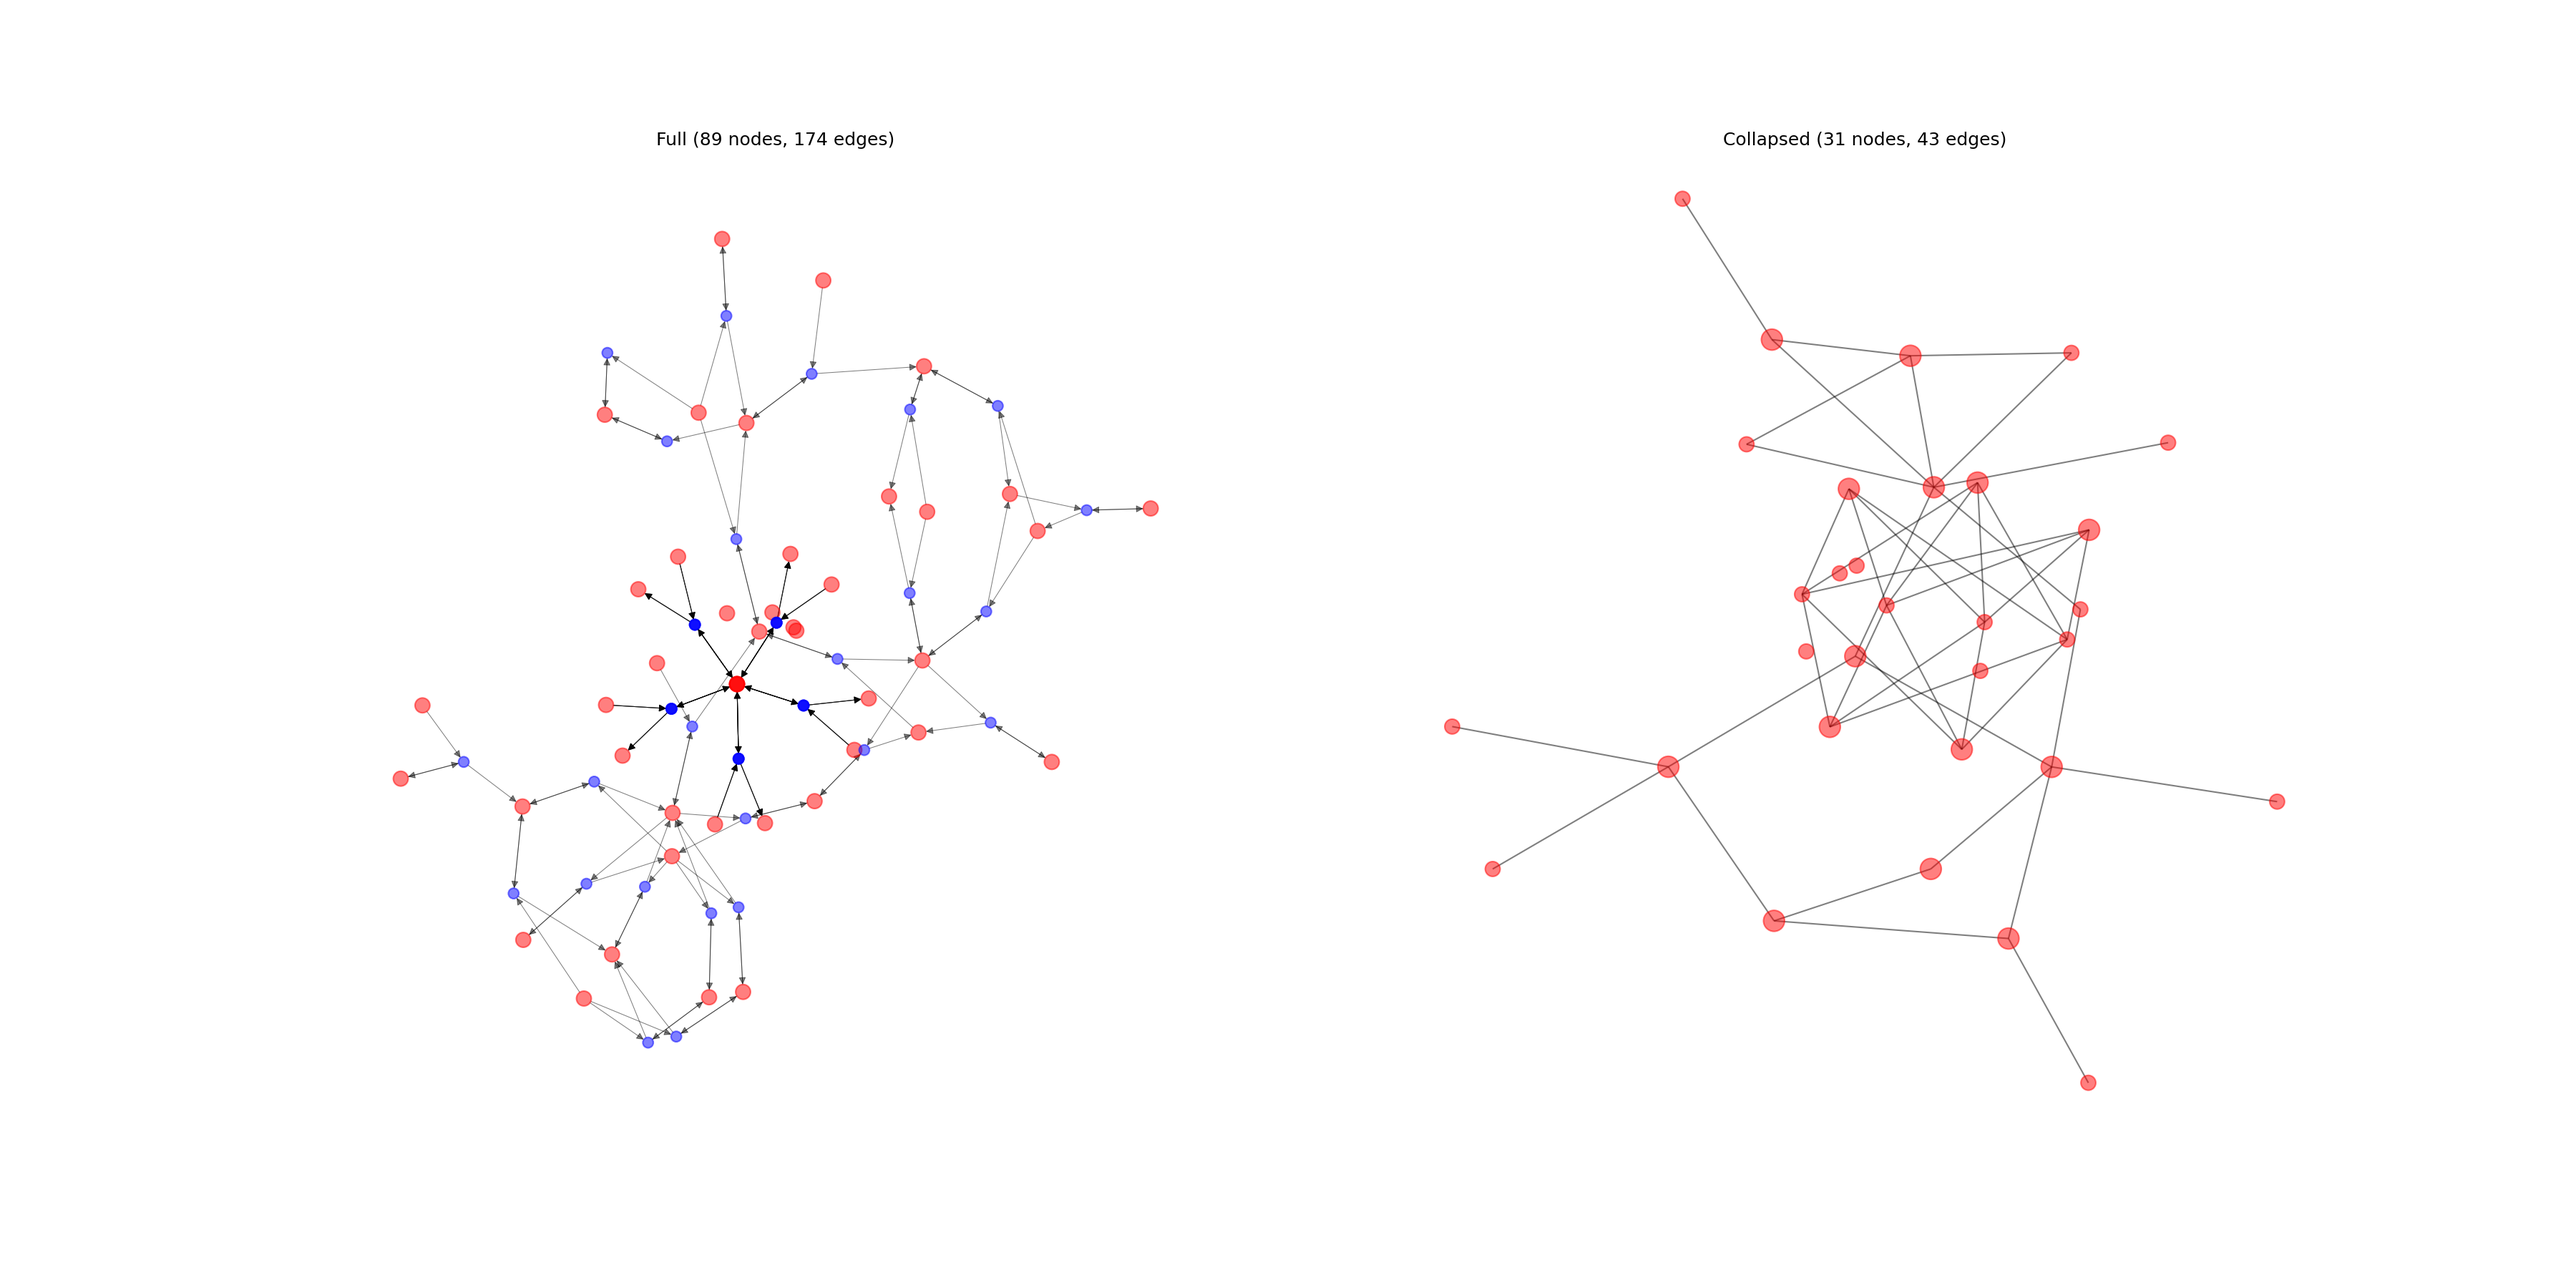
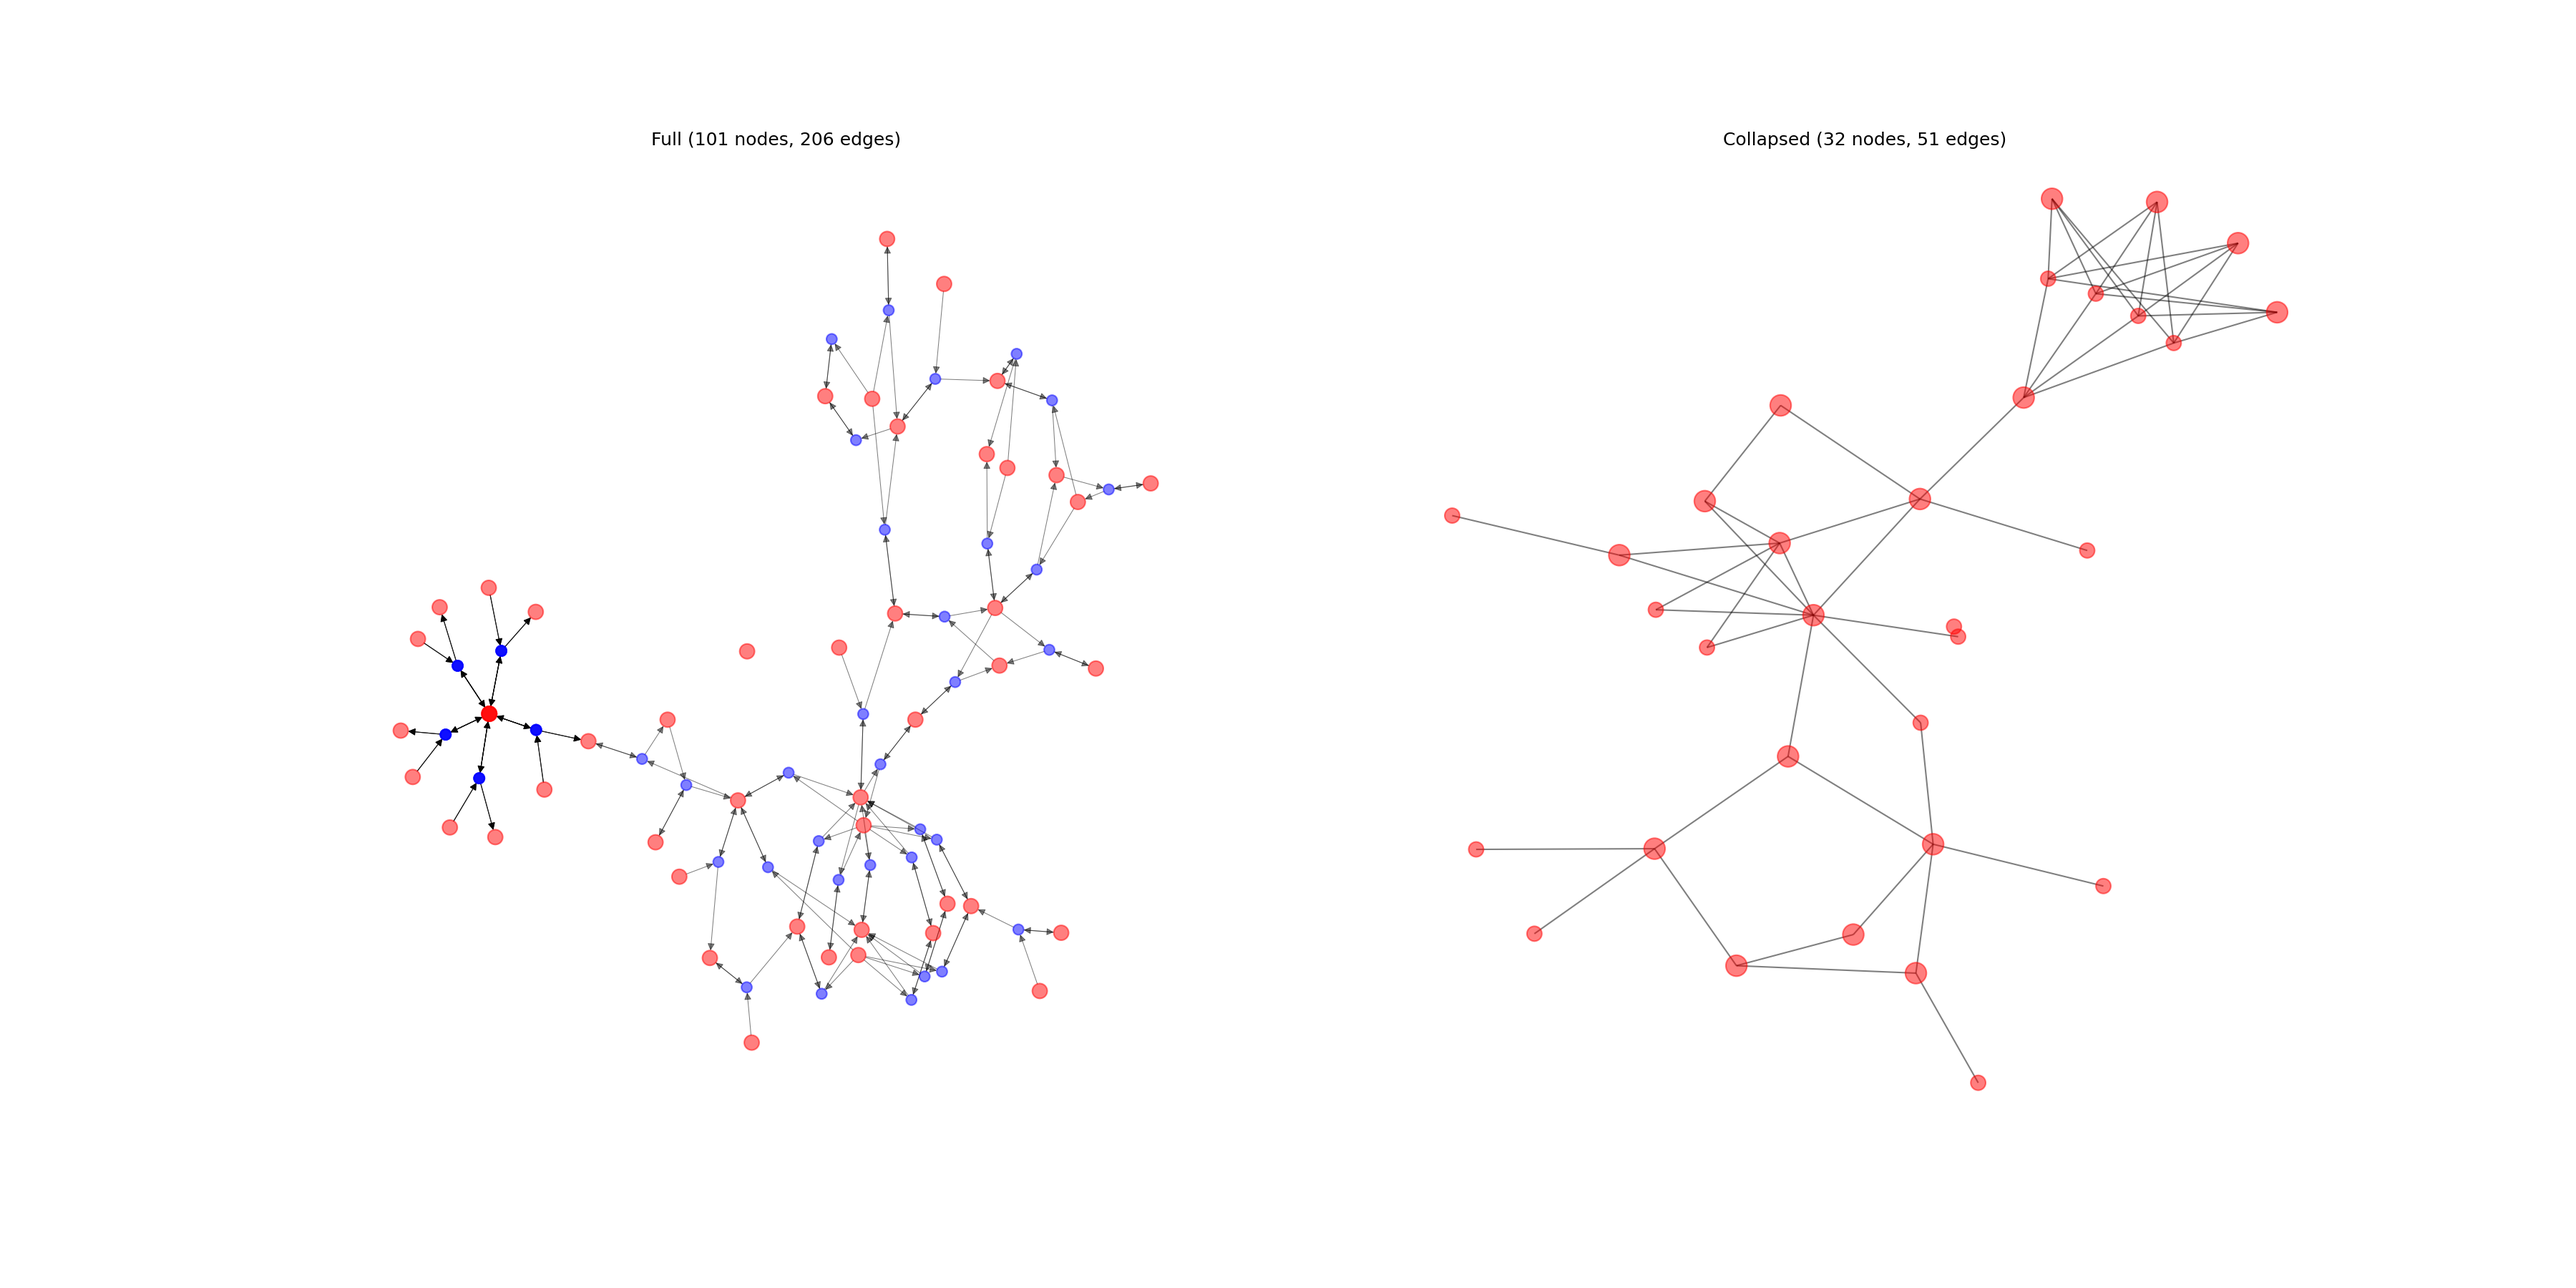
Updated EMMAA Covid-19 model

diff --git a/gromet/notebooks/4_emmaa_aggregate_function.py b/gromet/notebooks/4_emmaa_aggregate_function.py
@@ -50,6 +50,10 @@ for i, file in enumerate(files):
 deno_command = parser_path = data_dir = gromet_path = graph_path = file = f = None
 del deno_command, parser_path, data_dir, gromet_path, graph_path, file, f
 
+# %%
+# marm_model_gromet_2021-06-28-17-07-14.json: 474 nodes, 1207 edges
+# rasmachine_gromet_2021-06-28-17-29-57.json: 22442 nodes, 85874 edges
+# covid19_inflammasome_gromet_2021-08-17-17-47-36.json: 102 nodes, 206 edges
 
 # %%
 # Aggregate a given GroMEt graph that has EMMAA agent metadata for all nodes
@@ -272,8 +276,8 @@ for file, g in zip(files, graph):
         print(f"Error: {file}")
 
 
-    files = g = f = p = None
-    del files, g, f, p
+    file = g = f = p = None
+    del file, g, f, p
 
 # %%
 # Similar to `aggregate_emmaa_graph_reversible`
@@ -425,3 +429,19 @@ for file, g in zip(files, graph):
 # Number of Rate Nodes: 44
 # Number of State Groups: 31
 # Number of Rate Groups: 43
+
+# %%
+# Number of State Nodes: 74
+# Number of Rate Nodes: 399
+# Number of State Groups: 28
+# Number of Rate Groups: 118
+
+# Number of State Nodes: 849
+# Number of Rate Nodes: 21592
+# Number of State Groups: 167
+# Number of Rate Groups: 178
+
+# Number of State Nodes: 49
+# Number of Rate Nodes: 52
+# Number of State Groups: 32
+# Number of Rate Groups: 51
